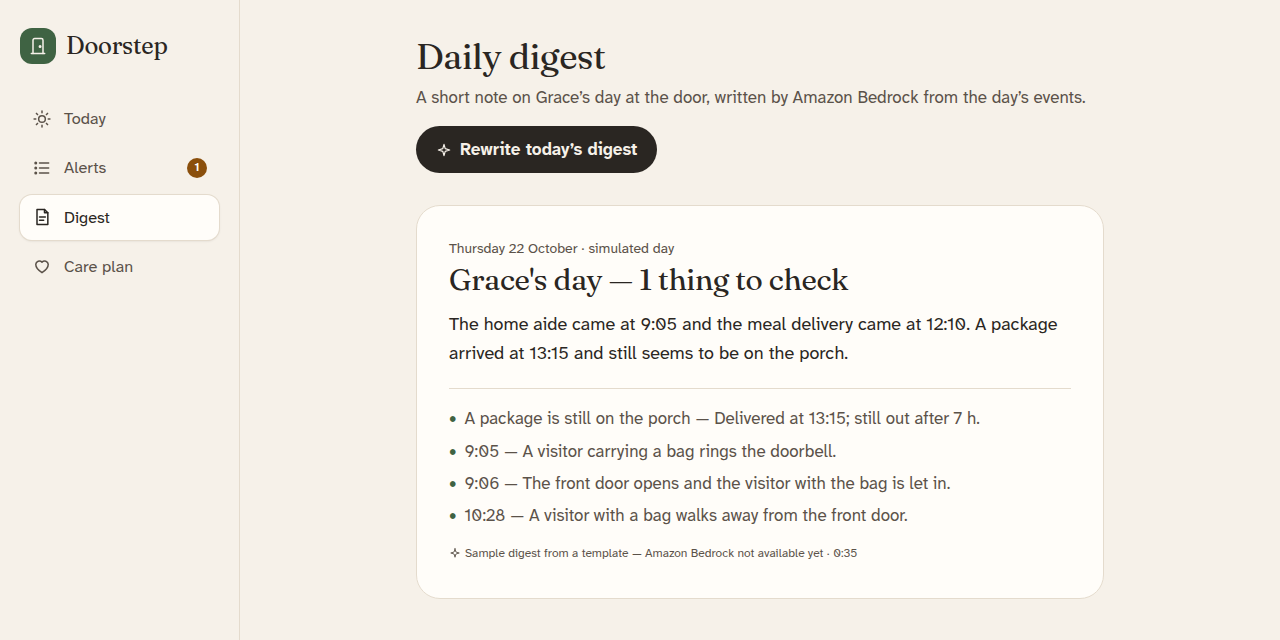
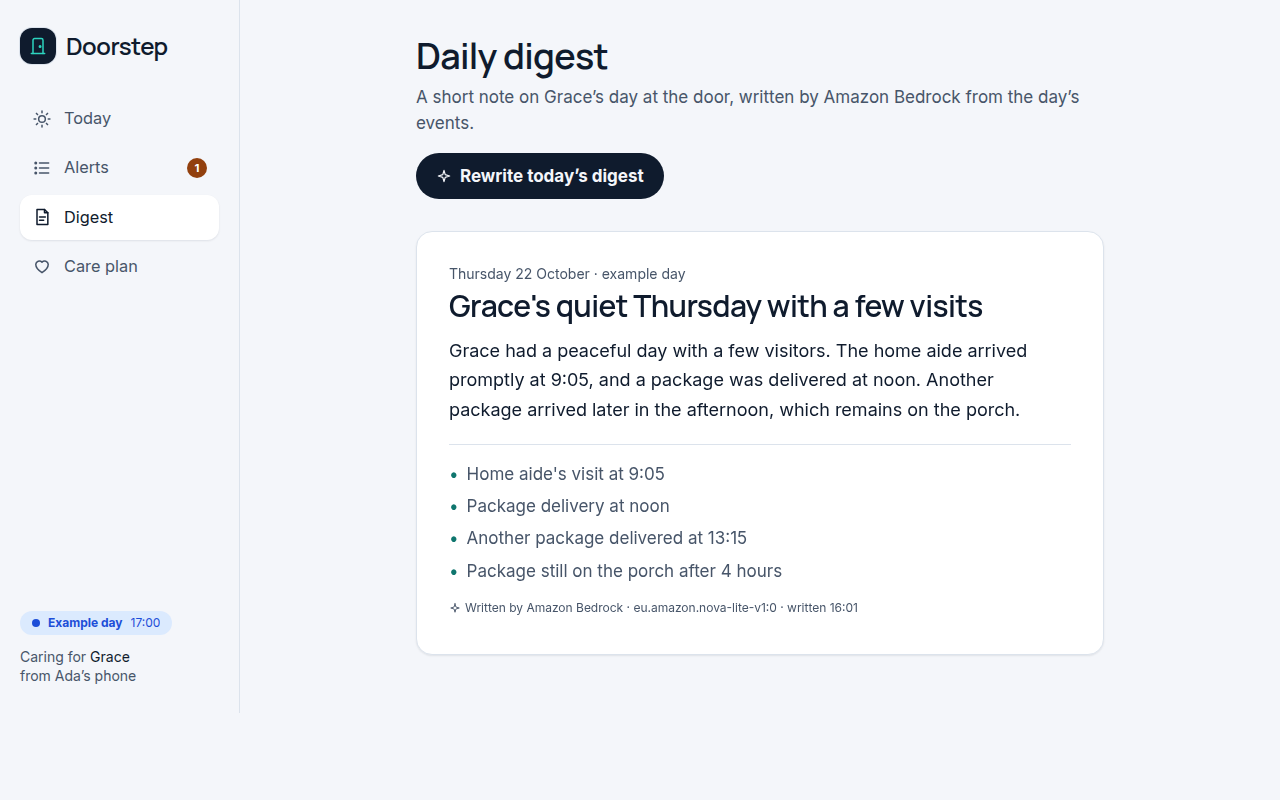
README screenshots in the new look; demo script and recording checklist for the final app (real Bedrock, call sheet, explainer, ?intro=off)

diff --git a/src/components/Intro.tsx b/src/components/Intro.tsx
@@ -7,6 +7,12 @@ const SEEN_KEY = "doorstep.intro.dismissed";
 const BANNER_KEY = "doorstep.story.dismissed";
 
 function readFlag(key: string): boolean {
+  // `?intro=off` hides the intro and banner (handy for recording and screenshots) and remembers it.
+  if (typeof window !== "undefined" && new URLSearchParams(window.location.search).get("intro") === "off") {
+    writeFlag(SEEN_KEY);
+    writeFlag(BANNER_KEY);
+    return true;
+  }
   try {
     return localStorage.getItem(key) === "1";
   } catch {

diff --git a/DEMO_SCRIPT.md b/DEMO_SCRIPT.md
@@ -1,75 +1,76 @@
 # Doorstep: demo video script (target 2:40, hard limit 2:50)
 
-Timings below were measured on the real app on Thu Oct 22. "Pre-roll" means do it before you press record for that shot, then cut.
+Timings were re-measured on the final app on Thu Oct 22. "Pre-roll" means do it before recording that shot, then cut. Captions are **real Amazon Bedrock (Nova Lite)** output, pre-cached with `npm run warm:captions`, so they appear instantly.
 
-Setup: follow [RECORDING_CHECKLIST.md](RECORDING_CHECKLIST.md). You need two browser windows:
-- **A**: `http://localhost:3000/demo`, preview on **Ada's phone**. Drive everything from here.
-- **B**: VS Code with `src/lib/ring/client.ts` open, for the code beat.
-
-**Bedrock status changes one line.** If `npm run check:bedrock` succeeds, the captions are Nova Lite; use the ★ lines. If it fails, captions are labelled **Sample caption**; use the ☆ lines. Never hide the label.
+**Windows you need** (see [RECORDING_CHECKLIST.md](RECORDING_CHECKLIST.md)):
+- **A** — `http://localhost:3000/demo`, preview on **Ada's phone**. Drive everything from here.
+- **B** — `http://localhost:3000/?intro=off` full-screen, for close-ups. `?intro=off` hides the intro and story banner.
+- **C** — VS Code with `src/lib/ring/client.ts`, `src/lib/rules/engine.ts` and `src/lib/bedrock/index.ts` open, for the code beat.
 
 ---
 
-### Pre-roll for shots 1–2 (≈2½ min, off camera)
-1. `/demo` → **Reset for recording**.
-2. Speed **300×** → **A package left out → Play at 300×**.
-3. Wait until the phone shows amber **"1 thing needs your attention"** (simulated 16:15, **≈2:00** after Play). Then click **Pause**.
+### Shot 1 · 0:00–0:15 · The payoff: an alert opens to the real Ring photo
+- **Pre-roll:** in A click **Reset for recording**. In the phone preview, the explainer shows. Tap **See Grace's day**; the example day loads instantly at 17:00 with an amber **"1 thing needs your attention"**.
+- **On camera:** tap **See what happened** on the alert card. The alert page shows:
+  - "Why Doorstep flagged this", tied to Grace's care plan;
+  - the **real Ring camera photo** (watermark intact) of a parcel on snowy steps, with Nova Lite's caption.
+- **VO:** "Ada lives two hundred miles from her mum, Grace. At five o'clock Doorstep tells her a parcel has sat on Grace's front step for hours, shows her the Ring camera's picture, and explains exactly why it's flagging it."
 
-### Shot 1 · 0:00–0:15 · The payoff
-- **On screen:** the phone frame shows the amber alert card "A package is still on the porch". Tap **See what happened**. The alert page opens with the **real Ring snapshot** (Ring logo and watermark top-left and top-right) and the *Why Doorstep flagged this* box.
-- **Clicks:** in the phone frame, tap **See what happened**. Slowly scroll to show the image and the "Simulated · real Ring frame" label.
-- **VO:** "Ada lives two hundred miles from her mum, Grace. At quarter past four, Doorstep tells her a parcel's been sitting on Grace's front step for three hours. That's a real Ring camera frame."
-
-### Shot 2 · 0:15–0:35 · The problem
-- **On screen:** stay on the alert page, then tap **All alerts** and **Today** to show the calm visits list and the timeline.
-- **VO:** "Doorbell cameras give families clips and a stream of pings, but not the answer to the one question that matters: is Mum's day normal? Doorstep watches for the timing and the absences, and stays quiet when everything fits."
+### Shot 2 · 0:15–0:35 · The problem, and what Doorstep is
+- **On screen:** go back to **Today** and scroll: the calm visits list ("Home aide · someone came at 9:05") and the timeline of captioned events. Optionally cut to window B at the explainer (open a private window so it shows).
+- **VO:** "Doorbell cameras give families clips and a stream of pings, but not the answer to the one question that matters: is Mum's day normal? Doorstep watches the timing and the absences through Ring, and stays quiet when everything fits."
 
 ### Shot 3 · 0:35–1:05 · A day at 60×
-- **Pre-roll:** **Stop & clear** → speed **60×** → **The aide doesn't come → Play** → **+2 h** → **+30 min** four times (clock reads **10:30**) → **Pause**.
-- **On camera:** click **Resume**. The phone timeline fills, then **≈15 s later** (10:45) the status turns amber: **"Home aide doesn't seem to have come"**. Tap the card's **See what happened**.
-- **VO:** "Here's a simulated day at sixty times speed. Every Ring event becomes one plain sentence ★ written by Amazon Bedrock's Nova Lite / ☆ — these are labelled sample captions while our Bedrock access is being unlocked — and it never identifies anyone. The carer is due between nine and half ten. When nobody comes, a rules engine, not AI, raises one gentle alert, and explains why in terms of Grace's care plan."
+- **Pre-roll:** in A: **Stop & clear** → speed **60×** → **The aide doesn't come → Play** → **+2 h** → **+30 min** ×4 (clock **10:30**) → **Pause**.
+- **On camera:** **Resume**. Captions fill the timeline. **≈15 s** later (10:45) the phone turns amber: **"Home aide doesn't seem to have come"**. Tap **See what happened**.
+- **VO:** "Here's a simulated day at sixty times speed. Every event becomes one plain sentence written by Amazon Bedrock's Nova Lite, and it never identifies anyone. The carer is due between nine and half ten. When nobody comes, a rules engine, not AI, raises one gentle alert."
 
-### Shot 4 · 1:05–1:20 · A caretaker action
-- **On screen:** the alert page for the missed visit, with **Call Grace**, **Call Ngozi**, **That was expected**, **Remind me in 30 min**.
-- **Clicks:** tap **That was expected**. The page shows "Sorted", and *History* gains "Marked as expected". **Don't tap Call**: on a desktop it opens the system's phone-app dialog.
-- **VO:** "Ada can call her mum or the carer straight from here, ask to be reminded in half an hour, or, if she knows the visit was moved, mark it as expected. Everything's kept in the alert's history."
+### Shot 4 · 1:05–1:25 · A caretaker action
+- **On screen:** the missed-visit alert page.
+- **Clicks:**
+  1. Tap **Call Ngozi**. A call sheet opens with her name, role and number. On a computer, **Copy number** is the main action, with the note "Calling opens your phone app; on a computer, copy the number."
+  2. Tap **Copy number**, then **Done**.
+  3. Tap **That was expected**. The alert shows **Sorted**, and *History* lists "Called Ngozi (home aide)" and "Marked as expected".
+- **VO:** "From the alert, Ada can call her mum or the carer, ask to be reminded in half an hour, or mark it as expected. Everything's kept in the alert's history."
 
-### Shot 5 · 1:20–1:35 · The digest
-- **Clicks:** tap the **Digest** tab in the phone → **Write today's digest** (instant).
-- **VO:** "At the end of the day, a short note: Mum's day in three sentences." ☆ add: "…drafted from a template until Bedrock is switched on."
+### Shot 5 · 1:25–1:40 · The digest
+- **Clicks:** phone → **Digest** tab → **Write today's digest** (≈5 s with real Bedrock; cut the wait).
+- **VO:** "At the end of the day, Nova Lite writes Ada a short note: Mum's day in a few sentences."
 
-### Shot 6 · 1:35–2:00 · The visual doorbell
-- **Pre-roll:** **Stop & clear** → speed **60×** → **Late-night doorbell → Play** → **+30 min** twice (clock **23:30**) → **Pause**. Set the preview to **Grace's TV**.
-- **On camera:** click **Resume**. **≈12 s later** (23:41) the TV turns into a full-screen *"Someone rang the doorbell"* with the description and the image. Click inside the TV frame and press **Enter**: it dismisses. (Optional: switch back to **Ada's phone**; at **≈27 s** the late-night alert shows **"Escalated to Chidi"** in rose.)
+### Shot 6 · 1:40–2:00 · The visual doorbell (+ escalation)
+- **Pre-roll:** **Stop & clear** → speed **60×** → **Late-night doorbell → Play** → **+30 min** ×2 (clock **23:30**) → **Pause**. Switch the preview to **Grace's TV**.
+- **On camera:** **Resume**. **≈12 s** later (23:41) the TV shows a full-screen *"Someone rang the doorbell"* with the description and picture. Click into the frame and press **Enter** to dismiss. Optional: switch to **Ada's phone**; at **≈27 s** the late-night alert shows **"Escalated to Chidi"** in red.
 - **VO:** "For Grace, who doesn't always hear the chime, a big-screen visual doorbell. And if nobody acknowledges a late-night ring within fifteen minutes, Doorstep escalates it to Ada's brother."
 
-### Shot 7 · 2:00–2:20 · How it's built (code beat, 20 s)
-- **On screen (window B):**
-  1. **3 s:** `src/lib/ring/client.ts`, `getSnapshot`: the 303 → pre-signed URL, fetched without the token, and the `resolution: 1920×1080` comment.
-  2. **3 s:** `listEventsSince` (Event History pagination).
-  3. **4 s:** `src/lib/rules/engine.ts`, `missedVisits`.
-  4. **★ only, 4 s:** `src/lib/bedrock/index.ts`, the `ConverseCommand` with the image block.
-  5. **6 s:** back to `/demo`, pointing at the **data-mode badges** (LIVE / REPLAY / SCENARIO) and the **Ring API log**.
-- **VO:** "It's built on the real Ring Partner API: device discovery, event history and watermarked snapshots, with token-expiry handling. The Playground doesn't send webhooks, so Doorstep polls, replays real recorded Playground data, and labels simulated days as simulated. Nothing pretends."
+### Shot 7 · 2:00–2:20 · How it's built (20 s)
+- **On screen (window C):**
+  1. **4 s:** `client.ts` → `getSnapshot` (303 → pre-signed URL without the token; `resolution: 1920×1080`).
+  2. **3 s:** `client.ts` → `startLiveView` (WHEP).
+  3. **4 s:** `bedrock/index.ts` → the `ConverseCommand` with the image block.
+  4. **3 s:** `rules/engine.ts` → `missedVisits`.
+  5. **6 s:** back in `/demo`, point at the **Bedrock: REAL** line and the **Ring API log**.
+- **VO:** "It's built on the real Ring Partner API: devices, event history, watermarked snapshots and live view. Captions and digests come from Amazon Bedrock. The Playground doesn't send webhooks, so Doorstep polls and replays real recorded Playground data, and it labels example days honestly."
+
+### Optional · Look now (only with a fresh Playground token, 10 s)
+- In `/demo` choose **LIVE** and paste a token, then open any alert → **Look now**. About 10 s later real Ring live video plays below "Live from the Ring camera". Close it.
 
 ### Shot 8 · 2:20–2:35 · Close
-- **On screen:** `/demo` → **Stop & clear** → **Grace's normal day → Play at 300×** for a few seconds, holding on the phone's calm sage **"All normal at Grace's door today"**.
+- **Clicks:** A → **Stop & clear** → **Grace's normal day → Play at 300×** for a few seconds, holding on the calm **"All normal at Grace's door today"**.
 - **VO:** "Doorstep. Peace of mind that's quiet when everything's fine."
 
 ---
 
-## Timing reference (measured)
+## Timing reference (measured Thu Oct 22)
 
 | Action | Result |
 |---|---|
-| Package left out, Play at 300× | Alert at simulated 16:15, ≈2:00 later; day ends ≈50 s after that |
-| Aide doesn't come, 60×, +2 h, +30 min ×4 | Clock 10:30; alert ≈15 s after Resume |
-| Late-night doorbell, 60×, +30 min ×2 | Clock 23:30; TV lights up ≈12 s after Resume; escalation ≈27 s |
-| At 60× | 1 simulated minute = 1 second |
-| At 300× | A whole scenario day takes ≈3 minutes |
+| **See Grace's day** (explainer or empty Today) | Example day at 17:00 with the package alert, in < 1 s |
+| Aide doesn't come, 60×, +2 h, +30 min ×4, Resume | Alert ≈15 s after Resume |
+| Late-night doorbell, 60×, +30 min ×2, Resume | TV lights up ≈12 s; escalation ≈27 s |
+| Write today's digest (real Bedrock) | ≈5 s |
+| Look now (LIVE + token) | Video ≈10 s after click |
 
 ## If something goes wrong
-
 - **Wrong state:** **Reset for recording**, then redo the pre-roll.
-- **Ring token expired banner:** only appears in LIVE mode; this script doesn't use LIVE.
-- **Bedrock flips to working mid-take** (real captions start appearing): fine, captions improve. Use the ★ lines from then on.
+- **A caption shows "Sample caption":** Bedrock was slow or unavailable for that event; it's labelled honestly, so keep going. Run `npm run warm:captions` between takes to fill the cache.
+- **Never** run `npm run setup -- --reset` before recording: it deletes the cached captions. Use **Reset for recording** instead.

diff --git a/README.md b/README.md
@@ -14,17 +14,24 @@ Doorstep turns raw Ring front-door events into calm, plain-language information 
 - **Daily digest.** A short, warm note on the parent's day at the door, written by Bedrock (or, while Bedrock is unavailable, a labelled template).
 - **Visual doorbell for the living room.** A full-screen, high-contrast "someone is at the door" page (`/tv`), for deaf or hard-of-hearing residents who can't hear the chime. It runs in any big-screen browser. (A native Fire TV app was planned; we dropped it, see friction log F-14.)
 
-| Ada's phone when something's off (simulated day, driven from `/demo`) | A day with a package left out |
+**First visit** explains itself in five seconds, then **See Grace's day** loads an example day:
+
+![First visit: Doorstep watches your parent's front door through Ring, and tells you only when something's wrong](docs/screenshots/first-visit.png)
+
+| Today: one calm alert, visits, the door's timeline | Alert detail: real Ring photo, why it fired, what to do |
 |---|---|
-| ![Demo panel with phone preview showing a missed-visit alert](docs/screenshots/demo-panel.png) | ![Today screen with a package-left-out alert and timeline](docs/screenshots/package-today.png) |
-| **Real Ring Developer Playground data** in REPLAY: watermarked 1080p snapshots | **Daily digest** |
-| ![Today screen with replayed Ring Playground snapshots](docs/screenshots/replay-today.png) | ![Daily digest](docs/screenshots/digest.png) |
+| ![Today screen with a package alert](docs/screenshots/package-today.png) | ![Alert detail with the real Ring photo and caretaker actions](docs/screenshots/alert-detail.png) |
+| **Recorded Ring Developer Playground events**, captioned by Amazon Bedrock (Nova Lite) | **Daily digest** written by Nova Lite |
+| ![Today screen with recorded Ring events](docs/screenshots/replay-today.png) | ![Daily digest](docs/screenshots/digest.png) |
+| **Demo controls** with Ada's phone preview | **Visual doorbell** (`/tv`) for residents who can't hear the chime |
+| ![Demo controls](docs/screenshots/demo-panel.png) | ![Full-screen visual doorbell](docs/screenshots/tv-doorbell.png) |
 
-**Visual doorbell** (`/tv`) for residents who can't hear the chime:
-
-![Full-screen visual doorbell: someone is at the door](docs/screenshots/tv-doorbell.png)
-
-> Captions in these screenshots are labelled **sample captions**. Our AWS account's Nova Lite quota is still 0 (see [FRICTION_LOG F-08](FRICTION_LOG.md)). The Bedrock path is built and switches on automatically once calls succeed. Scenario images are drawn illustrations stamped "SIMULATED SCENE"; the REPLAY images are real Ring Playground frames.
+> Captions in these screenshots are real Amazon Bedrock (Nova Lite) output. Example-day pictures are labelled by source:
+> - **real Ring photo:** frames recorded from the Ring Developer Playground, with Ring's watermark;
+> - **stock photo:** credited in [assets/CREDITS.md](assets/CREDITS.md);
+> - **illustration.**
+>
+> Nothing on an example day is presented as a real visit.
 
 ## Run it (under 5 commands)
 

diff --git a/RECORDING_CHECKLIST.md b/RECORDING_CHECKLIST.md
@@ -3,8 +3,9 @@
 ## 30 minutes before
 
 - [ ] `git pull` and `npm run dev` from the repo. Wait for "Ready", then open <http://localhost:3000/demo> once so every page compiles before you record. The first load of each page in dev mode is slow.
-- [ ] Run `npm run check:bedrock` and note the result. It decides the ★ (real) or ☆ (sample) voice-over lines in `DEMO_SCRIPT.md`.
-- [ ] If real Bedrock works, pre-warm captions: in `/demo` play each scenario once at **300×**, so every caption is cached and appears instantly on camera. Then **Reset for recording**.
+- [ ] Run `npm run check:bedrock`. It should print ✓ (Bedrock is live since Thu 15:27).
+- [ ] Run `npm run warm:captions`. Every recorded and example event then has a cached Nova Lite caption, so captions appear instantly on camera. It takes a few minutes and costs well under a cent. Rerun it if any show "Sample caption".
+- [ ] **Never run `npm run setup -- --reset`** before recording: it deletes the caption cache. Use **Reset for recording** in `/demo`.
 - [ ] Close Slack, email and messaging. Turn on Do Not Disturb (Ubuntu: Settings → Notifications → Do Not Disturb).
 - [ ] Charger plugged in. Close heavy apps (the dev server and OBS need CPU).
 
@@ -33,6 +34,8 @@
    - no alerts, actions or digests.
 2. Do the shot's **pre-roll** from `DEMO_SCRIPT.md`, then record.
 3. **Between takes:** **Reset for recording** again. You don't need to restart the server.
+4. **The intro explainer** shows only until it's dismissed (remembered per browser). To film it again, use a private window. To hide it and the story banner for close-ups, open any page with `?intro=off`. If the explainer is gone, an empty Today screen has its own **See Grace's day** link.
+5. **Call sheet:** on a computer, tap **Copy number**, not **Call now** (Call now opens whatever app handles phone links).
 
 ## OBS settings for 1080p
 
